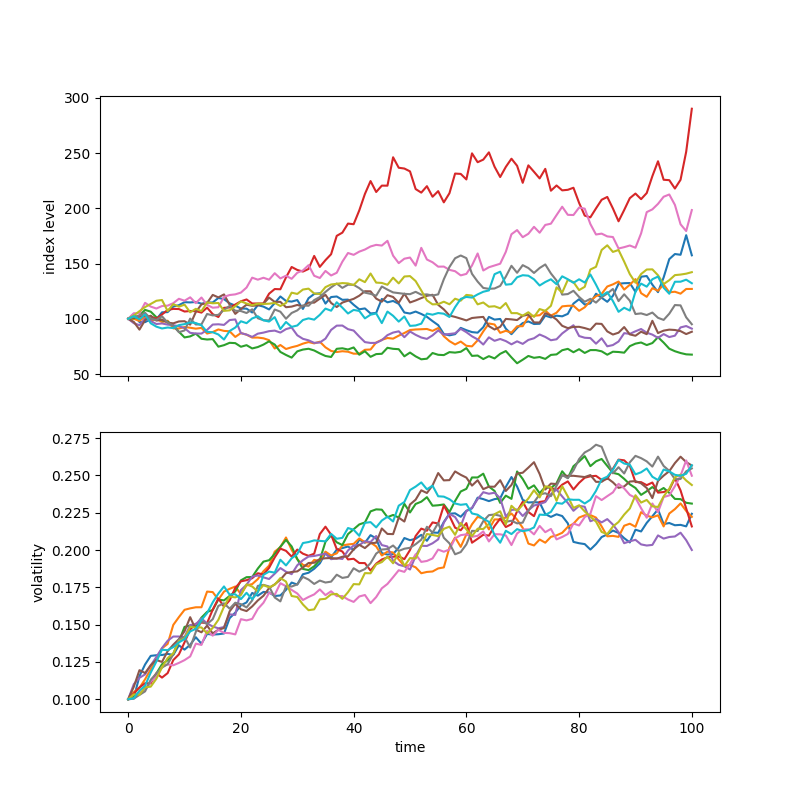
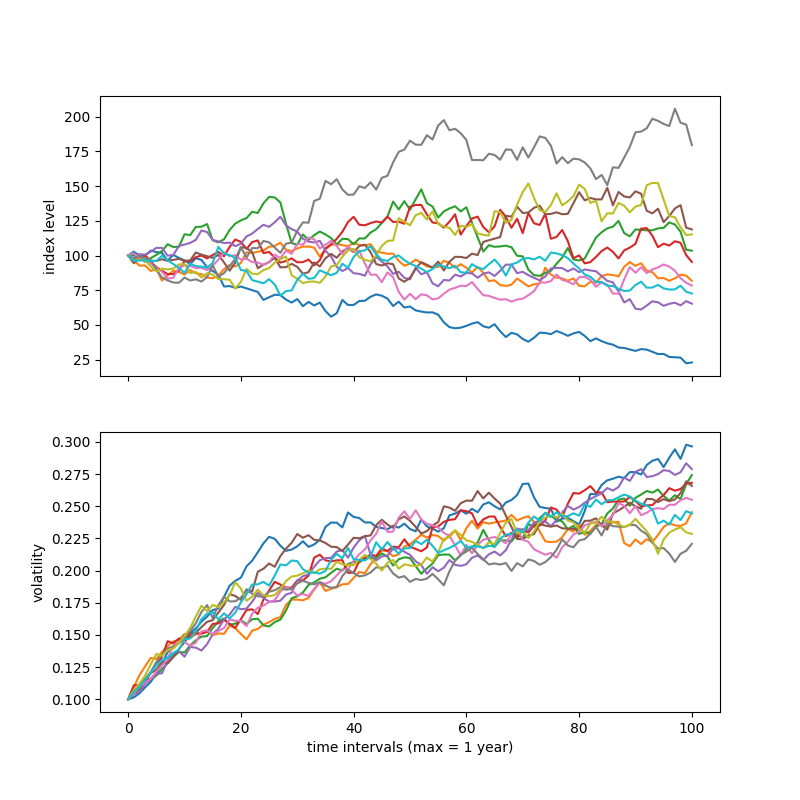
Some mods

diff --git a/BSM&beyond/c-BSM+Jump.py b/BSM&beyond/c-BSM+Jump.py
@@ -1,5 +1,5 @@
 '''
-Merton's Jump with constant volatility
+Merton's Jump with constant volatility -
 Evolution of a stock including a jump diffusion model
 you can model a bimodal distributions (left fat tails).
 '''
@@ -11,12 +11,12 @@ from pylab import plt
 
 #Numerical parametrization
 
-S0 = 100. # stock initial value
-r = 0.05 # constant (short riskless) interest rate
-sigma = 0.2 # constant volatility
-lamb = 0.75 # poissonian lambda for the jump
-mu = -0.6 # poissonian mu of the jump (time - independent)
-delta = 0.25 # jump volatility
+S0 = 100.  # stock initial value
+r = 0.05  # constant (short riskless) interest rate
+sigma = 0.2  # constant volatility
+lamb = 0.75  # poissonian lambda for the jump (jump intensity)
+mu = -0.6  # poissonian mu of the jump (mean jump - time-independent)
+delta = 0.25  # jump volatility
 rj = lamb * (np.exp(mu + 0.5 * delta ** 2) - 1)  # drift correction
 
 T = 1.0
@@ -38,14 +38,14 @@ for t in range(1, nti + 1):
 
 plt.figure(figsize=(8, 8))
 plt.hist(S[-1], bins=50, weights=np.ones(len(S[-1])) / len(S[-1]))
-plt.xlabel('index value')
+plt.xlabel('index/stock value')
 plt.ylabel('frequency')
 plt.savefig('Fig/c-bimodal')
 
 plt.figure(figsize=(8, 8))
 plt.plot(S[:, :10], lw=1.5)
-plt.xlabel('time')
-plt.ylabel('index value')
+plt.xlabel('time intervals (max = 1 year)')
+plt.ylabel('index/stock value')
 plt.savefig('Fig/c-paths-jumps')
 
 plt.show()

diff --git a/Gaussians/a-Gaussian.py b/Gaussians/a-Gaussian.py
@@ -28,10 +28,13 @@ v2 = S0 * gaus_cdf(d1) - K * exp(-r * T) * gaus_cdf(d2)
 #print(value, v2)
 
 #plot normal distrubtion
+plt.figure(figsize=(8, 8))
 domain = np.linspace(-3, 3, 1000)
-plt.plot(domain, scs.norm.pdf(domain, 0, 1))
-plt.plot(domain, scs.norm.cdf(domain, 0, 1))
-plt.axvline(d1, color='r', ls='--', lw=1.0)
-plt.axvline(d2, color='b', ls='--', lw=1.0)
+plt.plot(domain, scs.norm.pdf(domain, 0, 1), label='pdf')
+plt.plot(domain, scs.norm.cdf(domain, 0, 1), label='cdf')
+plt.axvline(d1, color='r', ls='--', lw=1.0, label=f'd1 = {d1}')
+plt.axvline(d2, color='b', ls='--', lw=1.0, label=f'd2 = {d2}')
+#plt.set_ylabel('pdf cdf d1 d2')
+plt.legend(loc=1)
 plt.savefig('Fig/a-Gauss')
 plt.show()

diff --git a/BSM&beyond/b-BSM+Volatility(t).py b/BSM&beyond/b-BSM+Volatility(t).py
@@ -48,7 +48,7 @@ S = np.zeros_like(ran_num[0])
 S[0] = S0
 for t in range(1, nti + 1):
     ran = np.dot(cho_mat, ran_num[:, t, :])
-    S[t] = S[t - 1] * np.exp((r - 0.5 * v[t]**2) * dt + np.sqrt(v[t]) * ran[0] * np.sqrt(dt))
+    S[t] = S[t - 1] * np.exp((r - 0.5 * v[t]) * dt + np.sqrt(v[t]) * ran[0] * np.sqrt(dt))
 
 stat = scs.describe(S[-1])
 #print("mean ", stat[2], np.mean(S[-1]))
@@ -66,7 +66,7 @@ fig, (ax1, ax2) = plt.subplots(2, 1, sharex=True, figsize=(8, 8))
 ax1.plot(S[:, :10], lw=1.5)
 ax1.set_ylabel('index level')
 ax2.plot(v[:, :10], lw=1.5)
-ax2.set_xlabel('time')
+ax2.set_xlabel('time intervals (max = 1 year)')
 ax2.set_ylabel('volatility')
 plt.savefig('Fig/b-paths')
 plt.show()
